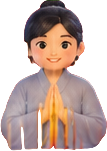
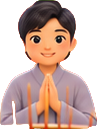
Phật tử đứng dậy đi lại, Bạn điều khiển bằng joystick
- Nền chánh điện trống + lớp đại chúng + 8 người hàng đầu cắt từ ảnh gốc + tiền cảnh
- Bộ tư thế nam/nữ: đi 4 hướng, đứng chắp tay, cúi chào, ngồi, lạy
- Phật tử tự đứng dậy ra cửa ngắm sân, đi xem tranh Phật, lạy Phật tại chỗ rồi về chỗ
- Joystick/phím điều khiển nhân vật Bạn; đi tới cửa chính thì ra sân, đứng yên ở chỗ ngồi thì ngồi xuống

Claude-Session: https://claude.ai/code/session_0165dYwuGLCeQUJKj4YibH94

diff --git a/nguoi.js b/nguoi.js
@@ -1,80 +1,255 @@
-/* Liên Hoa Tịnh Viện – làm người trong ảnh cử động.
-   Mỗi người được cắt ra từ ảnh gốc (giữ nguyên nét vẽ), vẽ lại trên nền đã xoá người,
-   rồi cho thở, cúi chào, lạy, niệm Phật bằng biến dạng nửa thân trên quanh hông. */
+/* Liên Hoa Tịnh Viện – Phật tử trong ảnh đứng dậy, đi lại, lạy Phật.
+   Nền: chánh điện trống (nen.jpg) · đại chúng phía sau (dong.png) · 8 người hàng đầu cắt từ ảnh gốc
+   · bộ tư thế nam/nữ (nam.png, nu.png: 4 cột × 6 hàng) · tiền cảnh bàn, đèn sen, hoa (truoc.png).
+   Người ngồi dùng đúng ảnh cắt (giữ nguyên nét vẽ); khi đứng dậy chuyển sang bộ tư thế. */
 (() => {
-  const DATA = {"monk": {"type": "f", "x": 178, "y": 693, "w": 107, "h": 129, "hip": 775, "name": null}, "p1": {"type": "f", "x": 257, "y": 612, "w": 115, "h": 155, "hip": 711, "name": "Minh Tâm", "tag": [317, 601]}, "p2": {"type": "f", "x": 419, "y": 612, "w": 126, "h": 156, "hip": 711, "name": "Quang Huy", "tag": [491, 602]}, "p3": {"type": "f", "x": 617, "y": 620, "w": 115, "h": 148, "hip": 714, "name": "Liên Hoa", "tag": [680, 609]}, "ban": {"type": "f", "x": 789, "y": 622, "w": 107, "h": 151, "hip": 745, "name": "Bạn", "tag": [842, 609]}, "p5": {"type": "f", "x": 959, "y": 622, "w": 114, "h": 145, "hip": 714, "name": "An Nhiên", "tag": [1020, 609]}, "p6": {"type": "f", "x": 1133, "y": 621, "w": 124, "h": 147, "hip": 715, "name": "Từ Hạnh", "tag": [1189, 609]}, "p7": {"type": "f", "x": 1292, "y": 618, "w": 112, "h": 151, "hip": 714, "name": "Nhật Minh", "tag": [1351, 607]}, "bA": {"type": "b", "x": 239, "y": 574, "w": 70, "h": 110, "hip": 653, "name": null}, "bB": {"type": "b", "x": 339, "y": 560, "w": 94, "h": 125, "hip": 650, "name": null}, "bD": {"type": "b", "x": 509, "y": 563, "w": 73, "h": 123, "hip": 651, "name": null}, "bE": {"type": "b", "x": 580, "y": 575, "w": 66, "h": 98, "hip": 645, "name": null}, "bF": {"type": "b", "x": 688, "y": 560, "w": 82, "h": 130, "hip": 653, "name": null}, "bG": {"type": "b", "x": 932, "y": 576, "w": 78, "h": 113, "hip": 657, "name": null}, "bH": {"type": "b", "x": 1034, "y": 575, "w": 87, "h": 111, "hip": 654, "name": null}, "bI": {"type": "b", "x": 1199, "y": 622, "w": 56, "h": 67, "hip": 670, "name": null}, "bJ": {"type": "b", "x": 1257, "y": 553, "w": 77, "h": 132, "hip": 648, "name": null}, "bK": {"type": "b", "x": 1364, "y": 582, "w": 70, "h": 125, "hip": 672, "name": null}};
+const AG = {"monk": {"x": 198, "y": 693, "w": 75, "h": 106, "foot": [235, 802], "sheet": "su", "name": null, "tag": null}, "w1": {"x": 266, "y": 644, "w": 114, "h": 147, "foot": [323, 794], "sheet": "nu", "name": "Minh Tâm", "tag": [319, 632]}, "m1": {"x": 432, "y": 644, "w": 110, "h": 146, "foot": [487, 792], "sheet": "nam", "name": "Quang Huy", "tag": [494, 632]}, "w2": {"x": 628, "y": 645, "w": 99, "h": 130, "foot": [677, 782], "sheet": "nu", "name": "Liên Hoa", "tag": [687, 632]}, "ban": {"x": 797, "y": 648, "w": 97, "h": 129, "foot": [845, 778], "sheet": "nam", "name": "Bạn", "tag": [844, 635]}, "w3": {"x": 976, "y": 646, "w": 96, "h": 129, "foot": [1024, 788], "sheet": "nu", "name": "An Nhiên", "tag": [1026, 632]}, "w4": {"x": 1146, "y": 648, "w": 95, "h": 127, "foot": [1193, 792], "sheet": "nu", "name": "Từ Hạnh", "tag": [1191, 632]}, "m2": {"x": 1295, "y": 644, "w": 116, "h": 148, "foot": [1353, 792], "sheet": "nam", "name": "Nhật Minh", "tag": [1353, 632]}};
+const SHEETS = {"nu": {"cw": 161, "ch": 246, "h": [240, 237, 236, 236, 237, 236, 235, 233, 231, 231, 230, 231, 230, 231, 231, 230, 242, 228, 207, 122, 211, 225, 185, 208]}, "nam": {"cw": 193, "ch": 260, "h": [256, 256, 244, 244, 249, 256, 256, 248, 256, 246, 248, 247, 247, 248, 254, 256, 249, 254, 220, 139, 247, 248, 209, 216]}};
+const CROWD = [171, 519], FG_Y = 660;
   const cv = document.getElementById('cv'), ctx = cv.getContext('2d');
   const load = src => new Promise(r => { const i = new Image(); i.onload = () => r(i); i.onerror = () => r(null); i.src = src; });
-  const people = Object.entries(DATA).map(([key, d], i) => ({ key, ...d, ph: i * 1.7 % 6.28, bow: 0, bowT: 0, until: 0, img: null }));
-  const byKey = Object.fromEntries(people.map(p => [p.key, p]));
-  // vẽ người ở xa trước, gần sau
-  const order = [...people].sort((a, b) => (a.type === b.type ? a.y + a.h - (b.y + b.h) : a.type === 'b' ? -1 : 1));
-  const tags = {};
-  const scene = document.getElementById('scene');
-  people.filter(p => p.name).forEach(p => {
-    const el = document.createElement('div'); el.className = 'tag' + (p.key === 'ban' ? ' me' : '');
-    el.textContent = p.name; el.style.left = p.tag[0] + 'px'; el.style.top = p.tag[1] + 'px';
-    scene.appendChild(el); tags[p.key] = el;
-  });
-  let plate, fg, ready = false;
-  Promise.all([load('assets/song/nen.jpg'), load('assets/song/truoc.png'), ...people.map(p => load(`assets/song/${p.key}.png`).then(i => p.img = i))])
-    .then(([a, b]) => { plate = a; fg = b; ready = true; document.documentElement.classList.add('song-ready'); });
+  const rnd = (a, b) => a + Math.random() * (b - a);
+  const sleep = ms => new Promise(r => setTimeout(r, ms));
 
-  function drawPerson(p, t) {
-    if (!p.img) return;
-    const U = p.hip - p.y, L = p.h - U;
-    const headH = Math.round(U * .5), torsoH = U - headH;            // đầu giữ nguyên, thân co lại khi cúi
-    const breathe = Math.sin(t * 1.25 + p.ph) * 0.008;
-    const drop = U * p.bow * .16;                                      // đầu hạ xuống bao nhiêu px
-    const tsy = Math.max(.2, (torsoH - drop) / torsoH) + breathe;
-    const hs = 1 + p.bow * (p.type === 'f' ? .035 : -.02);             // gần lại / xa ra khi cúi
-    const sway = Math.sin(t * .45 + p.ph) * 0.006;
-    const cx = p.x + p.w / 2;
-    if (L > 0) ctx.drawImage(p.img, 0, U, p.w, L, p.x, p.hip, p.w, L);
-    ctx.save();
-    ctx.translate(cx, p.hip + 1); ctx.rotate(sway);
-    ctx.save(); ctx.scale(1, tsy);                                     // thân
-    ctx.drawImage(p.img, 0, headH, p.w, torsoH + 1, -p.w / 2, -(torsoH + 1), p.w, torsoH + 1);
-    ctx.restore();
-    const neck = -torsoH * tsy;                                        // đầu + vai, cứng, nối trên thân
-    ctx.translate(0, neck + 1); ctx.scale(hs, hs);
-    ctx.drawImage(p.img, 0, 0, p.w, headH + 1, -p.w / 2, -(headH + 1), p.w, headH + 1);
-    ctx.restore();
-    const el = tags[p.key];
-    if (el) el.style.transform = `translate(-50%, -50%) translateY(${(torsoH - torsoH * tsy).toFixed(1)}px)`;
+  // Kích thước người theo chiều sâu: chiều cao người ngồi tại chân y (đo trên ảnh)
+  const hSeat = y => 40 + 0.4565 * (Math.max(548, y) - 560);
+  // Khung hình trong bộ tư thế
+  const F = { down: 0, up: 4, left: 8, right: 12, stand: 16, standBow: 17, sit: 18, prostrate: 19 };
+
+  /* ---------- Vùng đi được (toạ độ chân) ---------- */
+  const carpetX = y => { const t = (y - 548) / (790 - 548); return [806 + (732 - 806) * t, 884 + (958 - 884) * t]; };
+  function walkable(x, y) {
+    if (y >= 556 && y <= 806) { const [l, r] = carpetX(y); if (x >= l - 6 && x <= r + 6) return true; }  // thảm đỏ giữa lối
+    if (y >= 796 && y <= 828 && x >= 110 && x <= 1570) return true;                                        // lối trước hàng đầu
+    if (x >= 60 && x <= 292 && y >= 712 && y <= 900) return true;                                          // góc trái
+    if (x >= 1384 && x <= 1612 && y >= 712 && y <= 900) return true;                                       // góc phải
+    return false;
   }
-  let last = performance.now(), nextRandom = 2;
+
+  /* ---------- Nhân vật ---------- */
+  const people = Object.entries(AG).map(([key, d], i) => ({
+    key, ...d, seat: [...d.foot], fx: d.foot[0], fy: d.foot[1],
+    mode: 'seat', frame: F.sit, dir: 'down', walkT: 0, mix: 0, // mix: 0 = ảnh cắt gốc, 1 = bộ tư thế
+    ph: i * 1.7 % 6.28, bow: 0, bowT: 0, until: 0, busy: false, img: null
+  }));
+  const byKey = Object.fromEntries(people.map(p => [p.key, p]));
+  const me = byKey.ban;
+  const sheets = {};
+
+  const scene = document.getElementById('scene');
+  const aura = document.getElementById('me-aura');
+  const tags = {};
+  people.filter(p => p.name).forEach(p => {
+    const el = document.createElement('div'); el.className = 'tag' + (p === me ? ' me' : '');
+    el.textContent = p.name; scene.appendChild(el); tags[p.key] = el;
+  });
+
+  let plate, crowd, fg, ready = false;
+  Promise.all([
+    load('assets/song/nen.jpg'), load('assets/song/dong.png'), load('assets/song/truoc.png'),
+    load('assets/song/nu.png').then(i => sheets.nu = i), load('assets/song/nam.png').then(i => sheets.nam = i),
+    ...people.map(p => load(`assets/song/${p.key}.png`).then(i => p.img = i))
+  ]).then(([a, b, c]) => { plate = a; crowd = b; fg = c; ready = !!plate; document.documentElement.classList.add('song-ready'); });
+
+  /* ---------- Vẽ ---------- */
+  function spriteScale(p) { const S = SHEETS[p.sheet]; return 1.15 * hSeat(p.fy) / S.h[F.stand]; }
+  function drawSprite(p, frame, alpha = 1) {
+    const S = SHEETS[p.sheet], img = sheets[p.sheet]; if (!img) return 0;
+    const s = spriteScale(p), col = frame % 4, row = (frame / 4) | 0;
+    const dw = S.cw * s, dh = S.ch * s;
+    ctx.globalAlpha = alpha;
+    ctx.drawImage(img, col * S.cw, row * S.ch, S.cw, S.ch, p.fx - dw / 2, p.fy - dh + 1, dw, dh);
+    ctx.globalAlpha = 1;
+    return S.h[frame] * s;                                 // chiều cao thật của hình
+  }
+  function drawSeated(p, t) {                              // ảnh cắt gốc + thở, cúi chào
+    const hip = p.y + p.h * .55, U = hip - p.y, L = p.h - U;
+    const headH = Math.round(U * .5), torsoH = U - headH;
+    const breathe = Math.sin(t * 1.25 + p.ph) * 0.008;
+    const drop = U * p.bow * .16;
+    const tsy = Math.max(.2, (torsoH - drop) / torsoH) + breathe;
+    const hs = 1 + p.bow * .035, sway = Math.sin(t * .45 + p.ph) * 0.006, cx = p.x + p.w / 2;
+    ctx.globalAlpha = 1 - p.mix;
+    ctx.drawImage(p.img, 0, U, p.w, L, p.x, hip, p.w, L);
+    ctx.save(); ctx.translate(cx, hip + 1); ctx.rotate(sway);
+    ctx.save(); ctx.scale(1, tsy); ctx.drawImage(p.img, 0, headH, p.w, torsoH + 1, -p.w / 2, -(torsoH + 1), p.w, torsoH + 1); ctx.restore();
+    ctx.translate(0, -torsoH * tsy + 1); ctx.scale(hs, hs);
+    ctx.drawImage(p.img, 0, 0, p.w, headH + 1, -p.w / 2, -(headH + 1), p.w, headH + 1);
+    ctx.restore(); ctx.globalAlpha = 1;
+    return p.h + drop * -1;
+  }
+  function draw(p, t) {
+    let top;
+    if (p.mix < 1 && p.img) { const h = drawSeated(p, t); top = p.fy - h * (1 - p.bow * .12); }
+    if (p.mix > 0 && SHEETS[p.sheet]) {
+      let f = p.frame;
+      if (p.mode === 'walk') f = F[p.dir] + ((p.walkT * 8) | 0) % 4;
+      const h = drawSprite(p, f, p.mix);
+      if (p.mix >= .5) top = p.fy - h;
+    }
+    const el = tags[p.key];
+    if (el && top != null) { el.style.left = p.fx.toFixed(1) + 'px'; el.style.top = (top - 12).toFixed(1) + 'px'; }
+  }
+
+  /* ---------- Chuyển động ---------- */
+  const fade = (p, to, ms) => new Promise(res => { p.fadeTo = to; p.fadeSpeed = 1000 / ms; p.fadeDone = res; });
+  async function standUp(p) {
+    if (p.mode !== 'seat' || !SHEETS[p.sheet]) return false;
+    p.mode = 'pose'; p.bowT = 0; p.bow = 0; p.frame = F.sit;
+    await fade(p, 1, 280); await sleep(160);
+    p.frame = F.stand; await sleep(380);
+    return true;
+  }
+  async function sitDown(p) {
+    p.mode = 'pose'; p.fx = p.seat[0]; p.fy = p.seat[1];
+    p.frame = F.stand; await sleep(250); p.frame = F.sit; await sleep(250);
+    await fade(p, 0, 320); p.mode = 'seat';
+  }
+  function dirOf(dx, dy) { return Math.abs(dx) > Math.abs(dy) * .8 ? (dx < 0 ? 'left' : 'right') : (dy < 0 ? 'up' : 'down'); }
+  function walkTo(p, x, y) {                     // người khác đi theo điểm mốc
+    return new Promise(res => { p.mode = 'walk'; p.target = [x, y]; p.arrive = res; });
+  }
+  function stepAgent(p, dt) {
+    if (p.fadeTo != null) {
+      p.mix += Math.sign(p.fadeTo - p.mix) * p.fadeSpeed * dt;
+      if ((p.fadeTo === 1 && p.mix >= 1) || (p.fadeTo === 0 && p.mix <= 0)) { p.mix = p.fadeTo; p.fadeTo = null; p.fadeDone(); }
+    }
+    if (p.mode === 'walk' && p.target) {
+      const [tx, ty] = p.target, dx = tx - p.fx, dy = ty - p.fy, d = Math.hypot(dx, dy);
+      const v = .9 * hSeat(p.fy) * dt;
+      p.dir = dirOf(dx, dy); p.walkT += dt;
+      if (d <= v) { p.fx = tx; p.fy = ty; p.target = null; p.mode = 'pose'; p.frame = F.stand; p.arrive(); }
+      else { p.fx += dx / d * v; p.fy += dy / d * v; }
+    }
+  }
+
+  /* Những chuyến đi của Phật tử */
+  const LANE = 812;
+  const ROUTES = {
+    async door(p) {                               // ra cửa ngắm sân rồi về
+      const side = p.seat[0] < 845 ? 768 : 922;
+      await walkTo(p, p.seat[0], LANE); await walkTo(p, side, LANE);
+      await walkTo(p, side < 845 ? 800 : 890, 690); await walkTo(p, 845 + rnd(-14, 14), 572);
+      p.frame = F.up; await sleep(rnd(2600, 4200));
+      p.frame = F.standBow; await sleep(900);
+      await walkTo(p, side < 845 ? 800 : 890, 690); await walkTo(p, side, LANE); await walkTo(p, p.seat[0], LANE);
+      await walkTo(p, p.seat[0], p.seat[1]);
+    },
+    async tranh(p) {                              // ra góc chiêm bái tranh Phật
+      const left = p.seat[0] < 845 ? Math.random() < .75 : Math.random() < .25;
+      const gx = left ? rnd(110, 200) : rnd(1460, 1560), gy = rnd(740, 790);
+      await walkTo(p, p.seat[0], LANE); await walkTo(p, left ? 250 : 1430, LANE); await walkTo(p, gx, gy);
+      p.frame = F.up; await sleep(rnd(2200, 3600));
+      p.frame = F.stand; await sleep(500); p.frame = F.standBow; await sleep(1100); p.frame = F.stand; await sleep(300);
+      await walkTo(p, left ? 250 : 1430, LANE); await walkTo(p, p.seat[0], LANE); await walkTo(p, p.seat[0], p.seat[1]);
+    },
+    async lay(p) {                                // đứng dậy lạy Phật ba lạy tại chỗ
+      for (let i = 0; i < 3; i++) await prostrate(p);
+    }
+  };
+  async function prostrate(p) {
+    p.mode = 'pose';
+    p.frame = F.stand; await sleep(450); p.frame = F.standBow; await sleep(500);
+    p.frame = F.sit; await sleep(380); p.frame = F.prostrate; await sleep(1100);
+    p.frame = F.sit; await sleep(380); p.frame = F.stand; await sleep(350);
+  }
+  async function outing(p, kind) {
+    if (p.busy || p.mode !== 'seat') return; p.busy = true;
+    try { if (await standUp(p)) { await ROUTES[kind](p); await sitDown(p); } }
+    finally { p.busy = false; }
+  }
+  const walkers = () => people.filter(p => p.busy && p !== me).length;
+
+  /* ---------- Bạn: điều khiển bằng joystick ---------- */
+  let input = { x: 0, y: 0 }, meIdle = 0, meBusy = false, doorFired = false;
+  function drive(x, y) { input = { x, y }; }
+  async function stepMe(dt) {
+    const mag = Math.hypot(input.x, input.y);
+    if (mag > .15 && !meBusy) {
+      meIdle = 0;
+      if (me.mode === 'seat') { meBusy = true; me.busy = true; await standUp(me); meBusy = false; return; }
+      if (me.mode === 'pose') me.mode = 'walk';
+      if (me.mode !== 'walk' || me.target) return;
+      const v = .95 * hSeat(me.fy) * Math.min(1, mag) * dt;
+      // trục dọc chậm hơn theo chiều sâu cho cảm giác đúng phối cảnh
+      const nx = me.fx + input.x / mag * v, ny = me.fy + input.y / mag * v * .85;
+      if (walkable(nx, ny)) { me.fx = nx; me.fy = ny; }
+      else if (walkable(nx, me.fy)) me.fx = nx;
+      else if (walkable(me.fx, ny)) me.fy = ny;
+      me.dir = dirOf(input.x, input.y * .85); me.walkT += dt;
+      if (me.fy < 566 && !doorFired) { doorFired = true; dispatchEvent(new CustomEvent('ban-ra-cua')); }
+      if (me.fy > 600) doorFired = false;
+    } else if (me.mode === 'walk' && !me.target) {
+      me.mode = 'pose'; me.frame = me.dir === 'up' ? F.up : F.stand;
+    } else if (me.mode === 'pose' && !meBusy) {
+      meIdle += dt;
+      // đứng yên gần chỗ ngồi của mình thì tự ngồi xuống
+      if (meIdle > 1.2 && Math.hypot(me.fx - me.seat[0], me.fy - me.seat[1]) < 30) {
+        meBusy = true; await sitDown(me); me.busy = false; meBusy = false;
+      }
+    }
+  }
+
+  /* ---------- Vòng lặp ---------- */
+  let last = performance.now(), nextBow = 2, nextTrip = 4;
   function frame(now) {
     const dt = Math.min(.05, (now - last) / 1000); last = now; const t = now / 1000;
     if (ready) {
       for (const p of people) {
         if (p.until && now > p.until) { p.bowT = 0; p.until = 0; }
         p.bow += (p.bowT - p.bow) * (1 - Math.exp(-(p.bowT > p.bow ? 5 : 3.5) * dt));
+        stepAgent(p, dt);
       }
-      nextRandom -= dt;
-      if (nextRandom <= 0) {             // thỉnh thoảng có người cúi đầu
-        nextRandom = 1.5 + Math.random() * 3.5;
+      stepMe(dt);
+      nextBow -= dt;
+      if (nextBow <= 0) {                // thỉnh thoảng có người cúi đầu
+        nextBow = rnd(1.5, 5);
         const p = people[(Math.random() * people.length) | 0];
-        if (p.key !== 'ban' && !p.bowT) bow(p.key, .45 + Math.random() * .35, 1100 + Math.random() * 900);
+        if (p !== me && p.mode === 'seat' && !p.bowT) bow(p.key, rnd(.45, .8), rnd(1100, 2000));
+      }
+      nextTrip -= dt;
+      if (nextTrip <= 0) {               // có người đứng dậy đi lại
+        nextTrip = rnd(5, 11);
+        const free = people.filter(p => p !== me && !p.busy && p.mode === 'seat' && SHEETS[p.sheet]);
+        if (free.length && walkers() < 2) {
+          const p = free[(Math.random() * free.length) | 0], r = Math.random();
+          outing(p, r < .4 ? 'door' : r < .8 ? 'tranh' : 'lay');
+        }
       }
       ctx.drawImage(plate, 0, 0);
-      for (const p of order) drawPerson(p, t);
-      if (fg) ctx.drawImage(fg, 690, 712);
+      if (crowd) ctx.drawImage(crowd, CROWD[0], CROWD[1]);
+      [...people].sort((a, b) => a.fy - b.fy).forEach(p => draw(p, t));
+      if (fg) ctx.drawImage(fg, 0, FG_Y);
+      if (aura) { aura.style.left = me.fx + 'px'; aura.style.top = (me.fy - (me.mix > .5 ? 1.15 : .95) * hSeat(me.fy) * .55) + 'px'; }
     }
     requestAnimationFrame(frame);
   }
   requestAnimationFrame(frame);
 
-  function bow(key, depth = .6, ms = 1200) { const p = byKey[key]; if (!p) return; p.bowT = depth; p.until = performance.now() + ms; }
-  function bowAll(depth = 1, ms = 1400, includeMe = true) {
-    people.forEach(p => { if (!includeMe && p.key === 'ban') return; setTimeout(() => bow(p.key, depth * (p.type === 'b' ? .8 : 1), ms), p.key === 'ban' ? 0 : 150 + Math.random() * 650); });
+  /* ---------- Hành động gọi từ app.js ---------- */
+  function bow(key, depth = .6, ms = 1200) {
+    const p = byKey[key]; if (!p) return;
+    if (p.mode === 'seat') { p.bowT = depth; p.until = performance.now() + ms; return; }
+    if (p === me && p.mode === 'pose' && !meBusy) {             // đang đứng: cúi chào bằng tư thế
+      meBusy = true; p.frame = F.standBow; setTimeout(() => { p.frame = F.stand; meBusy = false; }, Math.max(500, ms));
+    }
   }
-  function beat() {                       // gõ mõ: Bạn và vài người gật nhẹ
-    bow('ban', .28, 380);
-    for (let i = 0; i < 4; i++) { const p = people[(Math.random() * people.length) | 0]; bow(p.key, .25, 380); }
+  function bowAll(depth = 1, ms = 1400) {
+    people.forEach(p => setTimeout(() => bow(p.key, depth, ms), p === me ? 0 : rnd(150, 800)));
   }
+  function beat() { bow('ban', .28, 380); for (let i = 0; i < 4; i++) bow(people[(Math.random() * people.length) | 0].key, .25, 380); }
   async function layPhat(times = 3) {
-    for (let i = 0; i < times; i++) { bowAll(1.55, 1500); await new Promise(r => setTimeout(r, 2300)); }
+    if (me.mode !== 'seat' && !meBusy) {                         // Bạn đang đứng thì lạy bằng tư thế lạy thật
+      meBusy = true;
+      people.filter(p => p.mode === 'seat').forEach(p => setTimeout(() => bow(p.key, 1.55, 1500), rnd(150, 800)));
+      for (let i = 0; i < times; i++) await prostrate(me);
+      me.frame = F.stand; meBusy = false; return;
+    }
+    for (let i = 0; i < times; i++) { bowAll(1.55, 1500); await sleep(2300); }
   }
-  window.Nguoi = { bow, bowAll, beat, layPhat };
+  function place(x, y, dir = 'down') {                            // đặt Bạn ở chỗ khác (vd. từ sân vào)
+    if (me.mode === 'seat') { me.mix = 1; }
+    me.mode = 'pose'; me.busy = true; me.fx = x; me.fy = y; me.dir = dir; me.frame = F.stand;
+  }
+  window.Nguoi = { bow, bowAll, beat, layPhat, drive, place, me: () => ({ x: me.fx, y: me.fy, standing: me.mode !== 'seat' }), outing: (k, kind) => byKey[k] && outing(byKey[k], kind) };
 })();

diff --git a/app.js b/app.js
@@ -79,14 +79,16 @@
   function loop() {
     cancelAnimationFrame(raf);
     const step = () => {
-      if (!dragging && !keys.size) { scene.classList.remove('drag'); return; }
+      if (!dragging && !keys.size) { scene.classList.remove('drag'); window.Nguoi && Nguoi.drive(0, 0); return; }
       let x = jv.x, y = jv.y;
       if (keys.has('l')) x -= 1; if (keys.has('r')) x += 1; if (keys.has('u')) y -= 1; if (keys.has('d')) y += 1;
-      cam.s *= 1 - y * 0.012;                 // lên = tiến vào, xuống = lùi ra
-      cam.x += x * 9 / cam.s;
-      if (cam.s > 1.05) cam.y += -y * 1.5 / cam.s * (420 - cam.y) / 100;
-      applyCam();
-      $$('#views [data-view]').forEach(b => b.classList.remove('on'));
+      if (window.Nguoi && !state.outside) {     // joystick điều khiển nhân vật "Bạn"
+        const m = Math.hypot(x, y); Nguoi.drive(m > 1 ? x / m : x, m > 1 ? y / m : y);
+      } else {                                 // dự phòng / ngoài sân: di chuyển camera
+        cam.s *= 1 - y * 0.012; cam.x += x * 9 / cam.s;
+        if (cam.s > 1.05) cam.y += -y * 1.5 / cam.s * (420 - cam.y) / 100;
+        applyCam(); $$('#views [data-view]').forEach(b => b.classList.remove('on'));
+      }
       raf = requestAnimationFrame(step);
     };
     raf = requestAnimationFrame(step);
@@ -263,6 +265,7 @@
   }
   function goInside() {
     state.outside = false; $('#exit-label').textContent = 'Ra ngoài'; setView('all'); toast('Trở lại chánh điện');
+    window.Nguoi && Nguoi.me().standing && Nguoi.me().y < 600 && Nguoi.place(845, 615, 'down');
   }
 
   /* ---------- Chánh điện / số người ---------- */
@@ -356,7 +359,7 @@
   $('#gear').addEventListener('click', () => {
     openModal('Cài đặt', `<label><input type="checkbox" id="s-amb" ${state.ambient ? 'checked' : ''}> Chuông chào khi vào điện</label>
       <label><input type="checkbox" id="s-views" ${$('#views').classList.contains('closed') ? '' : 'checked'}> Hiện bảng Điểm nhìn nhanh</label>
-      <p style="opacity:.8;font-size:17px">Điều khiển: joystick hoặc phím mũi tên / WASD (lên = tiến vào, xuống = lùi ra).</p>`,
+      <p style="opacity:.8;font-size:17px">Điều khiển: joystick hoặc phím mũi tên / WASD điều khiển nhân vật “Bạn” đứng dậy, đi lại trong chánh điện; đi ra tới cửa chính để ra sân. Đứng yên tại chỗ ngồi thì tự ngồi xuống.</p>`,
       body => {
         $('#s-amb', body).addEventListener('change', e => { state.ambient = e.target.checked; save(); });
         $('#s-views', body).addEventListener('change', e => $('#views').classList.toggle('closed', !e.target.checked));
@@ -368,6 +371,15 @@
     removeEventListener('pointerdown', first, true);
     audio(); if (state.ambient) setTimeout(bell, 150);
   }, true);
+
+  (function follow() {
+    if (window.Nguoi && !state.outside && cam.s > 1.05 && Nguoi.me().standing) {
+      const m = Nguoi.me(), ty = m.y - 110;
+      cam.x += (m.x - cam.x) * .06; cam.y += (ty - cam.y) * .06; applyCam();
+    }
+    requestAnimationFrame(follow);
+  })();
+  addEventListener('ban-ra-cua', () => { if (!state.outside) goOutside(); });
 
   applyCam();
 })();
